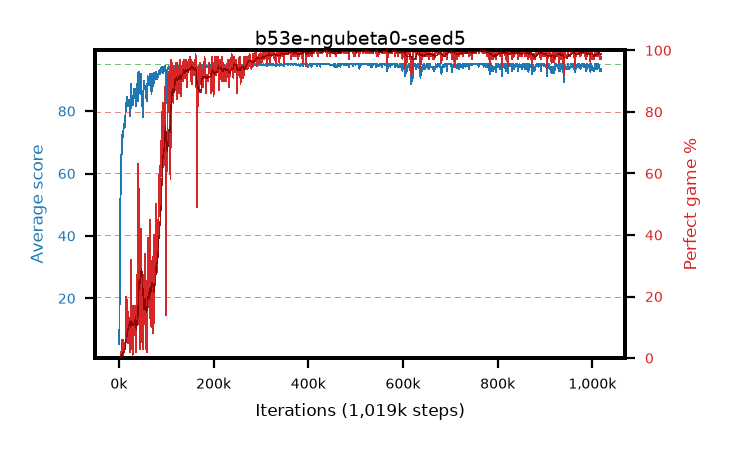
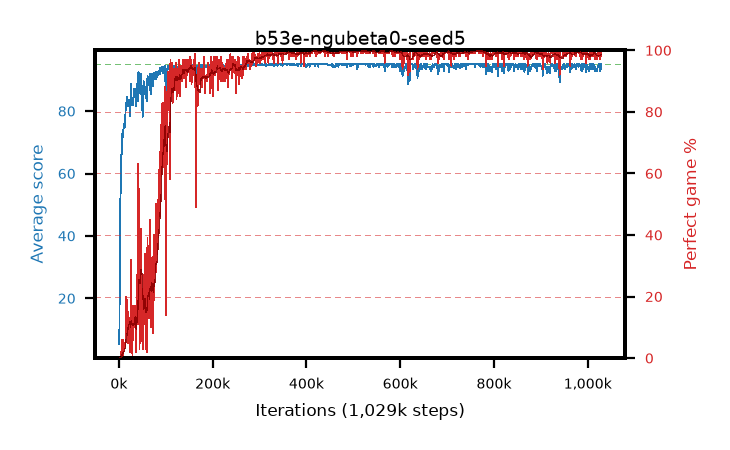
live pictures of 4 arm(s)

diff --git a/results/b53e-ngubeta0-seed5/b53e-ngubeta0-seed5.md b/results/b53e-ngubeta0-seed5/b53e-ngubeta0-seed5.md
@@ -1,6 +1,6 @@
 # b53e-ngubeta0-seed5
 
-step **1,019,000** · 1019 evals · trailing **94.11** · peak **94.95** @437,000 · sef **90.1** · best30 **99.8** @530,000
+step **1,029,000** · 1029 evals · trailing **94.01** · peak **94.95** @437,000 · sef **90.2** · best30 **99.8** @530,000
 
 ## Config
 
@@ -80,15 +80,15 @@ step **1,019,000** · 1019 evals · trailing **94.11** · peak **94.95** @437,00
 | 2000 | 29.39 | 17.35 | 3.0 | 54.0 | 24.459 | 0.0 | 0.4 |
 | 3000 | 50.81 | 28.5 | 16.0 | 85.0 | 45.457 | 0.0 | 0.4 |
 | ... | ... | ... | ... | ... | ... | ... | ... |
-| 1008000 | 93.49 | 94.23 | 18.0 | 95.0 | 190.194 | 98.0 | 0.4 |
-| 1009000 | 95.0 | 94.23 | 95.0 | 95.0 | 193.778 | 100.0 | 0.4 |
-| 1010000 | 95.0 | 94.23 | 95.0 | 95.0 | 193.778 | 100.0 | 0.4 |
-| 1011000 | 93.58 | 94.21 | 22.0 | 95.0 | 190.287 | 98.0 | 0.4 |
-| 1012000 | 95.0 | 94.21 | 95.0 | 95.0 | 193.781 | 100.0 | 0.4 |
-| 1013000 | 95.0 | 94.21 | 95.0 | 95.0 | 193.781 | 100.0 | 0.4 |
-| 1014000 | 94.24 | 94.21 | 19.0 | 95.0 | 191.983 | 99.0 | 0.4 |
-| 1015000 | 94.26 | 94.18 | 21.0 | 95.0 | 191.996 | 99.0 | 0.4 |
-| 1016000 | 92.75 | 94.16 | 18.0 | 95.0 | 188.403 | 97.0 | 0.4 |
-| 1017000 | 93.42 | 94.18 | 15.0 | 95.0 | 190.122 | 98.0 | 0.4 |
 | 1018000 | 92.76 | 94.11 | 17.0 | 95.0 | 188.424 | 97.0 | 0.4 |
 | 1019000 | 93.55 | 94.11 | 20.0 | 95.0 | 190.25 | 98.0 | 0.4 |
+| 1020000 | 92.71 | 94.04 | 18.0 | 95.0 | 188.378 | 97.0 | 0.4 |
+| 1021000 | 94.29 | 94.04 | 24.0 | 95.0 | 192.025 | 99.0 | 0.4 |
+| 1022000 | 94.01 | 94.03 | 17.0 | 95.0 | 190.752 | 98.0 | 0.4 |
+| 1023000 | 95.0 | 94.05 | 95.0 | 95.0 | 193.778 | 100.0 | 0.4 |
+| 1024000 | 95.0 | 94.05 | 95.0 | 95.0 | 193.779 | 100.0 | 0.4 |
+| 1025000 | 95.0 | 94.05 | 95.0 | 95.0 | 193.777 | 100.0 | 0.4 |
+| 1026000 | 92.8 | 94.06 | 18.0 | 95.0 | 188.461 | 97.0 | 0.4 |
+| 1027000 | 93.54 | 94.04 | 21.0 | 95.0 | 190.234 | 98.0 | 0.4 |
+| 1028000 | 95.0 | 94.04 | 95.0 | 95.0 | 193.777 | 100.0 | 0.4 |
+| 1029000 | 93.5 | 94.01 | 18.0 | 95.0 | 190.204 | 98.0 | 0.4 |

diff --git a/results/b53g-ngubeta0-seed7/b53g-ngubeta0-seed7.md b/results/b53g-ngubeta0-seed7/b53g-ngubeta0-seed7.md
@@ -1,6 +1,6 @@
 # b53g-ngubeta0-seed7
 
-step **1,029,000** · 1029 evals · trailing **94.18** · peak **94.97** @274,000 · sef **89.2** · best30 **99.8** @348,000
+step **1,039,000** · 1039 evals · trailing **94.39** · peak **94.97** @274,000 · sef **89.3** · best30 **99.8** @348,000
 
 ## Config
 
@@ -80,15 +80,15 @@ step **1,029,000** · 1029 evals · trailing **94.18** · peak **94.97** @274,00
 | 2000 | 37.8 | 20.34 | 6.0 | 63.0 | 32.628 | 0.0 | 0.4 |
 | 3000 | 67.99 | 36.22 | 23.0 | 95.0 | 74.006 | 11.0 | 0.4 |
 | ... | ... | ... | ... | ... | ... | ... | ... |
-| 1018000 | 95.0 | 94.11 | 95.0 | 95.0 | 193.79 | 100.0 | 0.4 |
-| 1019000 | 92.78 | 94.05 | 19.0 | 95.0 | 188.458 | 97.0 | 0.4 |
-| 1020000 | 94.27 | 94.08 | 22.0 | 95.0 | 192.02 | 99.0 | 0.4 |
-| 1021000 | 95.0 | 94.08 | 95.0 | 95.0 | 193.786 | 100.0 | 0.4 |
-| 1022000 | 94.28 | 94.08 | 23.0 | 95.0 | 192.034 | 99.0 | 0.4 |
-| 1023000 | 95.0 | 94.08 | 95.0 | 95.0 | 193.786 | 100.0 | 0.4 |
-| 1024000 | 95.0 | 94.08 | 95.0 | 95.0 | 193.782 | 100.0 | 0.4 |
-| 1025000 | 95.0 | 94.13 | 95.0 | 95.0 | 193.787 | 100.0 | 0.4 |
-| 1026000 | 94.18 | 94.1 | 13.0 | 95.0 | 191.926 | 99.0 | 0.4 |
-| 1027000 | 94.37 | 94.08 | 32.0 | 95.0 | 192.124 | 99.0 | 0.4 |
 | 1028000 | 93.34 | 94.12 | 20.0 | 95.0 | 188.058 | 96.0 | 0.4 |
 | 1029000 | 95.0 | 94.18 | 95.0 | 95.0 | 193.79 | 100.0 | 0.4 |
+| 1030000 | 94.21 | 94.18 | 16.0 | 95.0 | 191.969 | 99.0 | 0.4 |
+| 1031000 | 95.0 | 94.2 | 95.0 | 95.0 | 193.79 | 100.0 | 0.4 |
+| 1032000 | 93.42 | 94.22 | 23.0 | 95.0 | 189.088 | 97.0 | 0.4 |
+| 1033000 | 95.0 | 94.26 | 95.0 | 95.0 | 193.779 | 100.0 | 0.4 |
+| 1034000 | 95.0 | 94.26 | 95.0 | 95.0 | 193.781 | 100.0 | 0.4 |
+| 1035000 | 94.83 | 94.29 | 82.0 | 95.0 | 191.585 | 98.0 | 0.4 |
+| 1036000 | 95.0 | 94.34 | 95.0 | 95.0 | 193.781 | 100.0 | 0.4 |
+| 1037000 | 95.0 | 94.39 | 95.0 | 95.0 | 193.79 | 100.0 | 0.4 |
+| 1038000 | 94.3 | 94.39 | 30.0 | 95.0 | 191.048 | 98.0 | 0.4 |
+| 1039000 | 94.97 | 94.39 | 92.0 | 95.0 | 192.724 | 99.0 | 0.4 |
